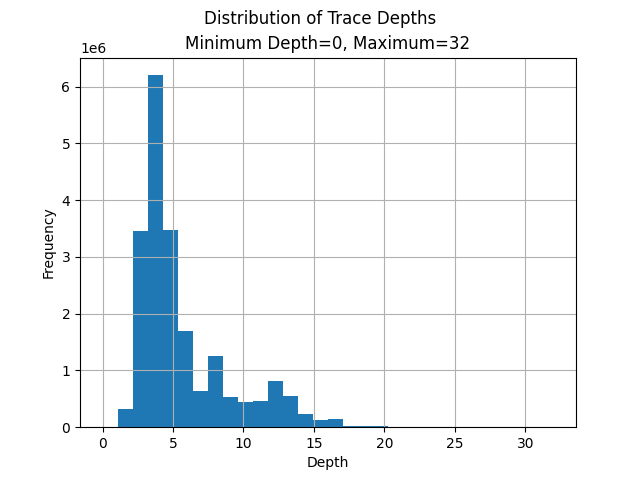
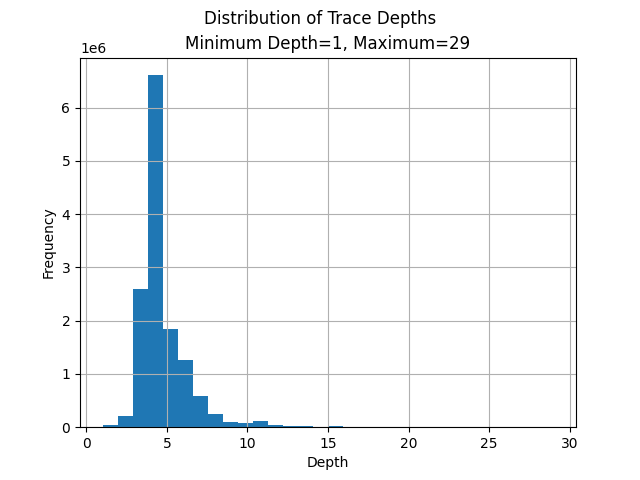
add updated concurrencies, depths

diff --git a/src/trace_plots.py b/src/trace_plots.py
@@ -1,12 +1,10 @@
 import matplotlib.pyplot as plt
 import misc as c
 import os
-import json
-import numpy as np
+import time
 
 
-def plot_concurrency_histogram():
-    concurrencies = c.read_result_object(c.CONCURRENCY_FILE)
+def plot_concurrency_histogram(concurrencies):
     path = os.path.join(c.RESULT_FOLDER, c.TRACES, 'concurrencies.png')
     c.prep_path(path)
     plt.figure()
@@ -20,8 +18,7 @@ def plot_concurrency_histogram():
     plt.savefig(path)
 
 
-def plot_depth_histogram():
-    depth = c.read_result_object(c.DEPTH_FILE)
+def plot_depth_histogram(depth):
     path = os.path.join(c.RESULT_FOLDER, c.TRACES, 'depths.png')
     c.prep_path(path)
     plt.figure()
@@ -33,15 +30,20 @@ def plot_depth_histogram():
     plt.grid()
     plt.savefig(path)
 
-def lookat_concurrencies():
-    concurrencies = c.read_result_object(c.CONCURRENCY_FILE)
-    print(sum(cn < 10 for cn in concurrencies))
-
 
 def main():
-    # plot_concurrency_histogram()
-    # plot_depth_histogram()
-    lookat_concurrencies()
+    # Takes about 3 minutes
+    concurrencies_depths = c.read_result_object(
+        c.CONCURRENCIES_AND_DEPTHS_FILE)
+    concurrencies = [e[0] for ls in concurrencies_depths for e in ls]
+    depths = [e[1] for ls in concurrencies_depths for e in ls]
+    print(sum(cn < 2 for cn in concurrencies))
+    # ti = time.time()
+    # plot_concurrency_histogram(concurrencies)
+    # print(f"concurrencies plotted {c.prettytime(time.time() - ti)}")
+    # ti = time.time()
+    # plot_depth_histogram(depths)
+    # print(f"depths plotted {c.prettytime(time.time() - ti)}")
 
 
 if __name__ == '__main__':
